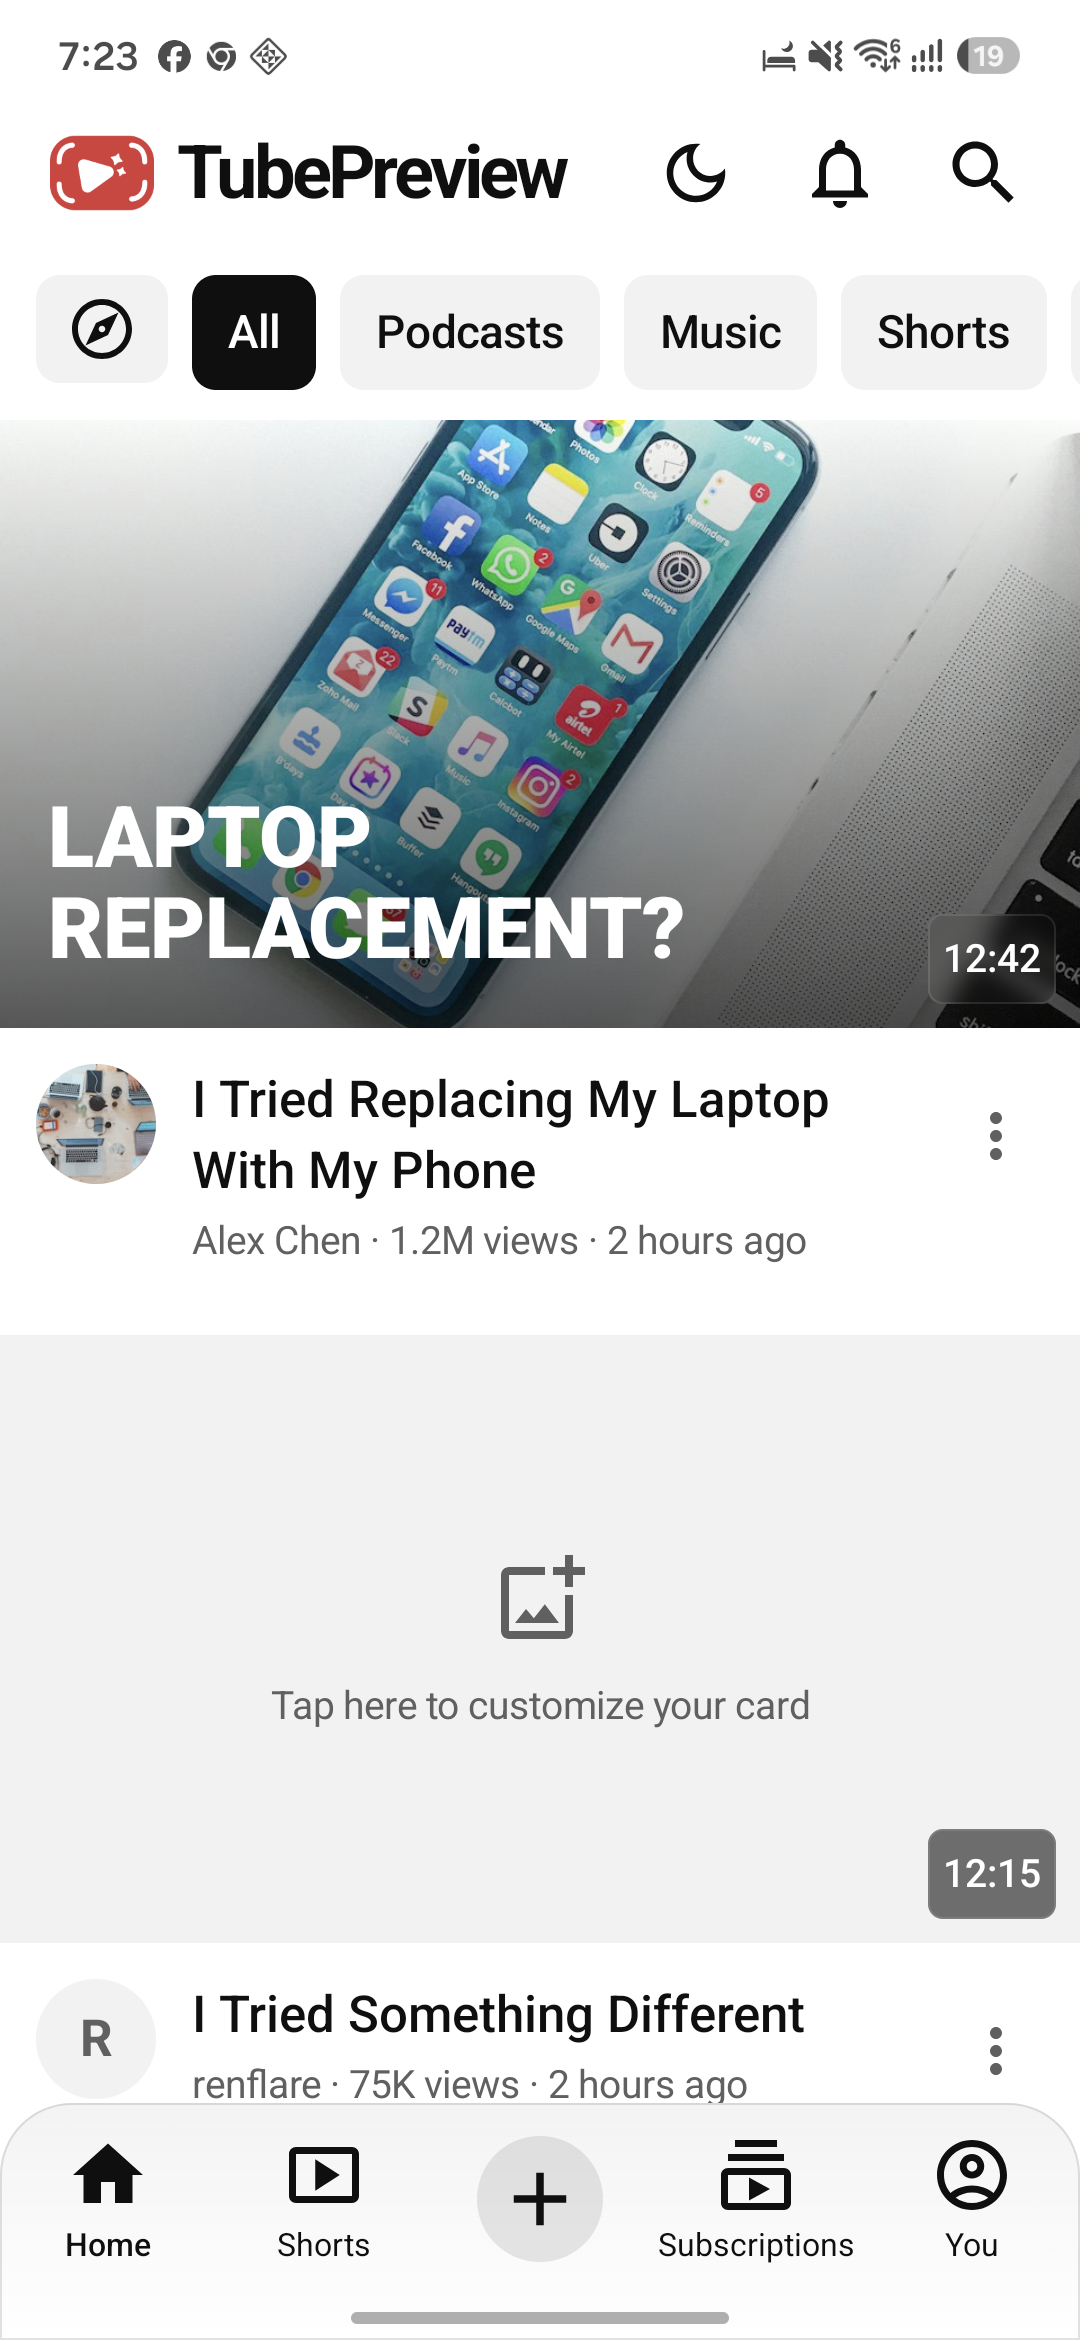
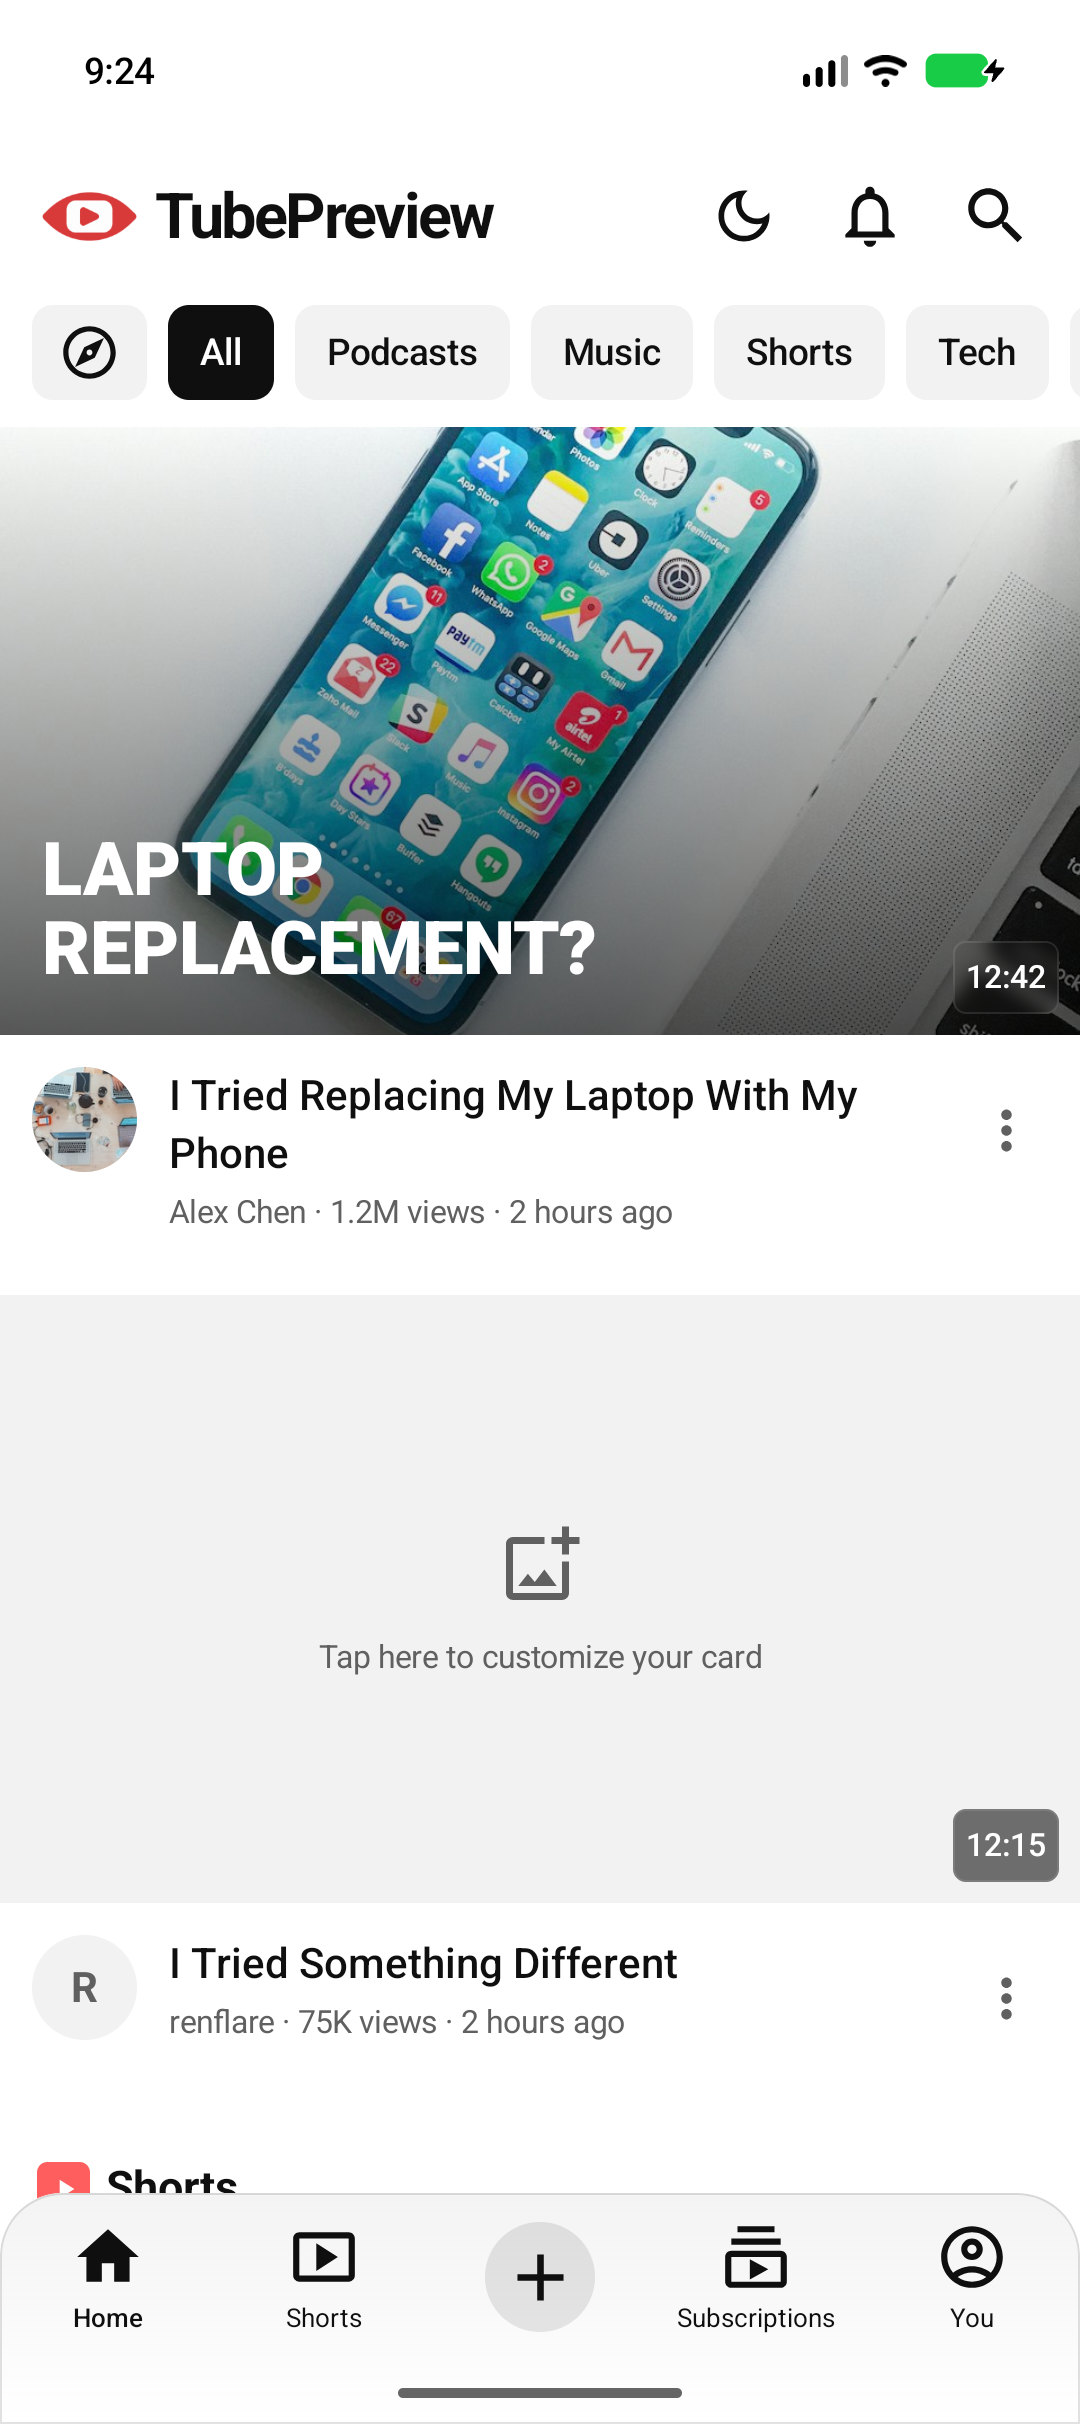
Refresh app branding and contain bottom navigation feedback

diff --git a/app/src/main/java/com/renflare/tubepreview/ui/screens/HomeScreen.kt b/app/src/main/java/com/renflare/tubepreview/ui/screens/HomeScreen.kt
@@ -273,6 +273,7 @@ fun HomeScreen(
                     .onSizeChanged { bottomBarHeightPx = it.height.toFloat() }
                     .offset { IntOffset(x = 0, y = if (isRefreshing || pullToRefreshState.distanceFraction > 0f) 0 else animatedBottomOffset.roundToInt()) }
                     .fillMaxWidth()
+                    .clip(RoundedCornerShape(topStart = 24.dp, topEnd = 24.dp))
                     // A solid backing keeps moving thumbnails from bleeding through the glass.
                     .background(MaterialTheme.colorScheme.background)
                     .background(
@@ -311,6 +312,8 @@ fun HomeScreen(
                             modifier = Modifier
                                 .weight(1f)
                                 .fillMaxHeight()
+                                .padding(4.dp)
+                                .clip(RoundedCornerShape(16.dp))
                                 .clickable {
                                     when {
                                         isYou || isCreate -> onNavigateToSettings()
